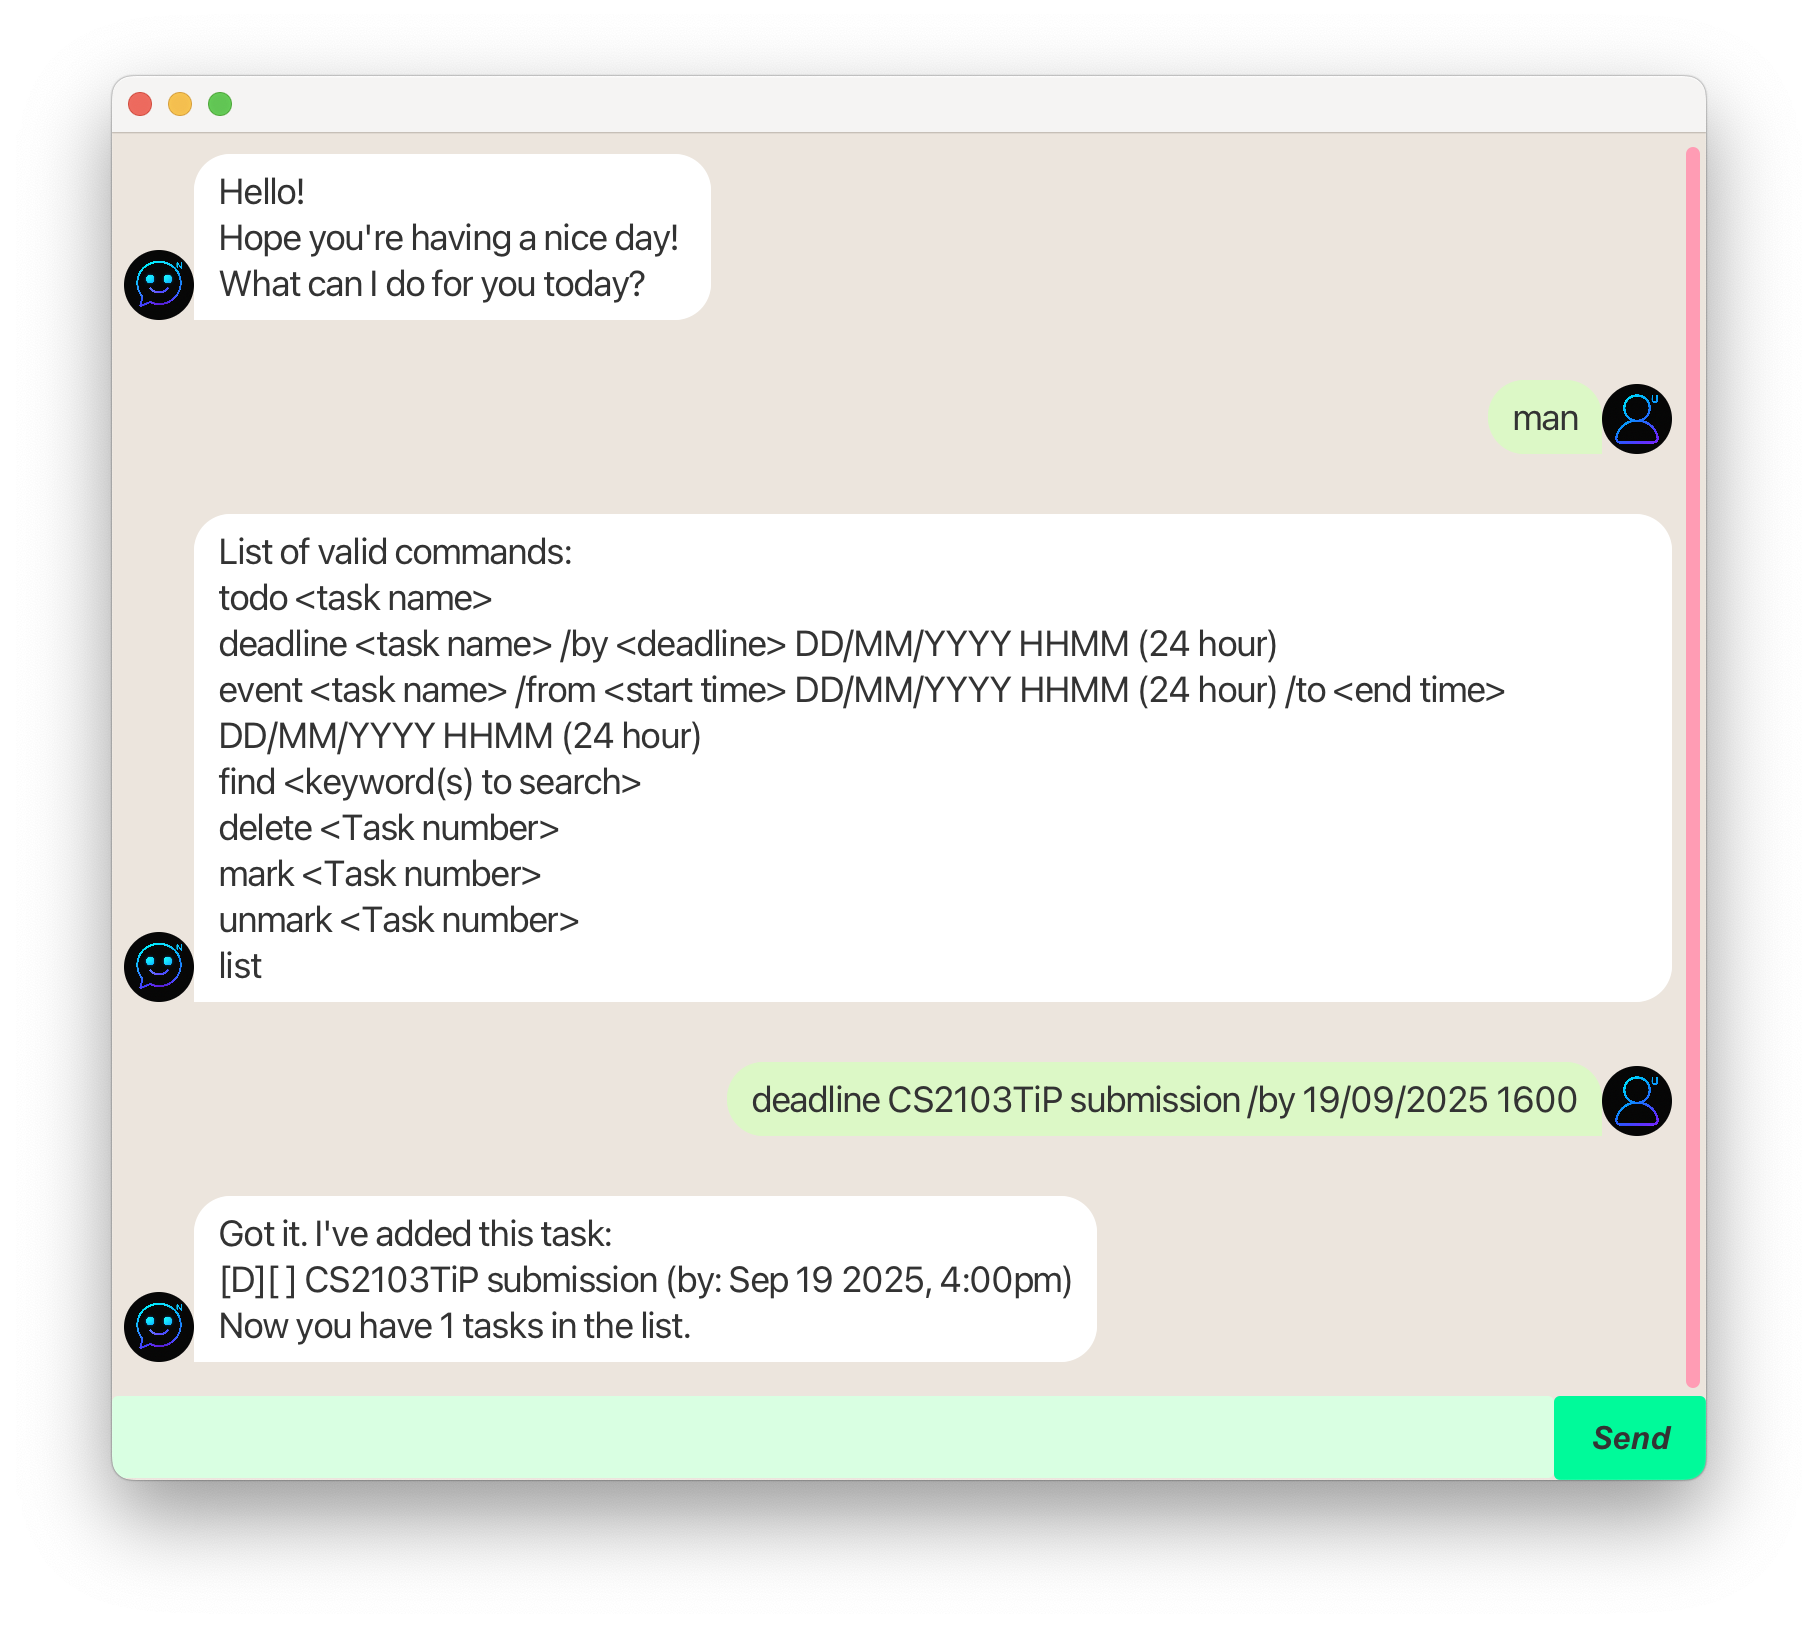
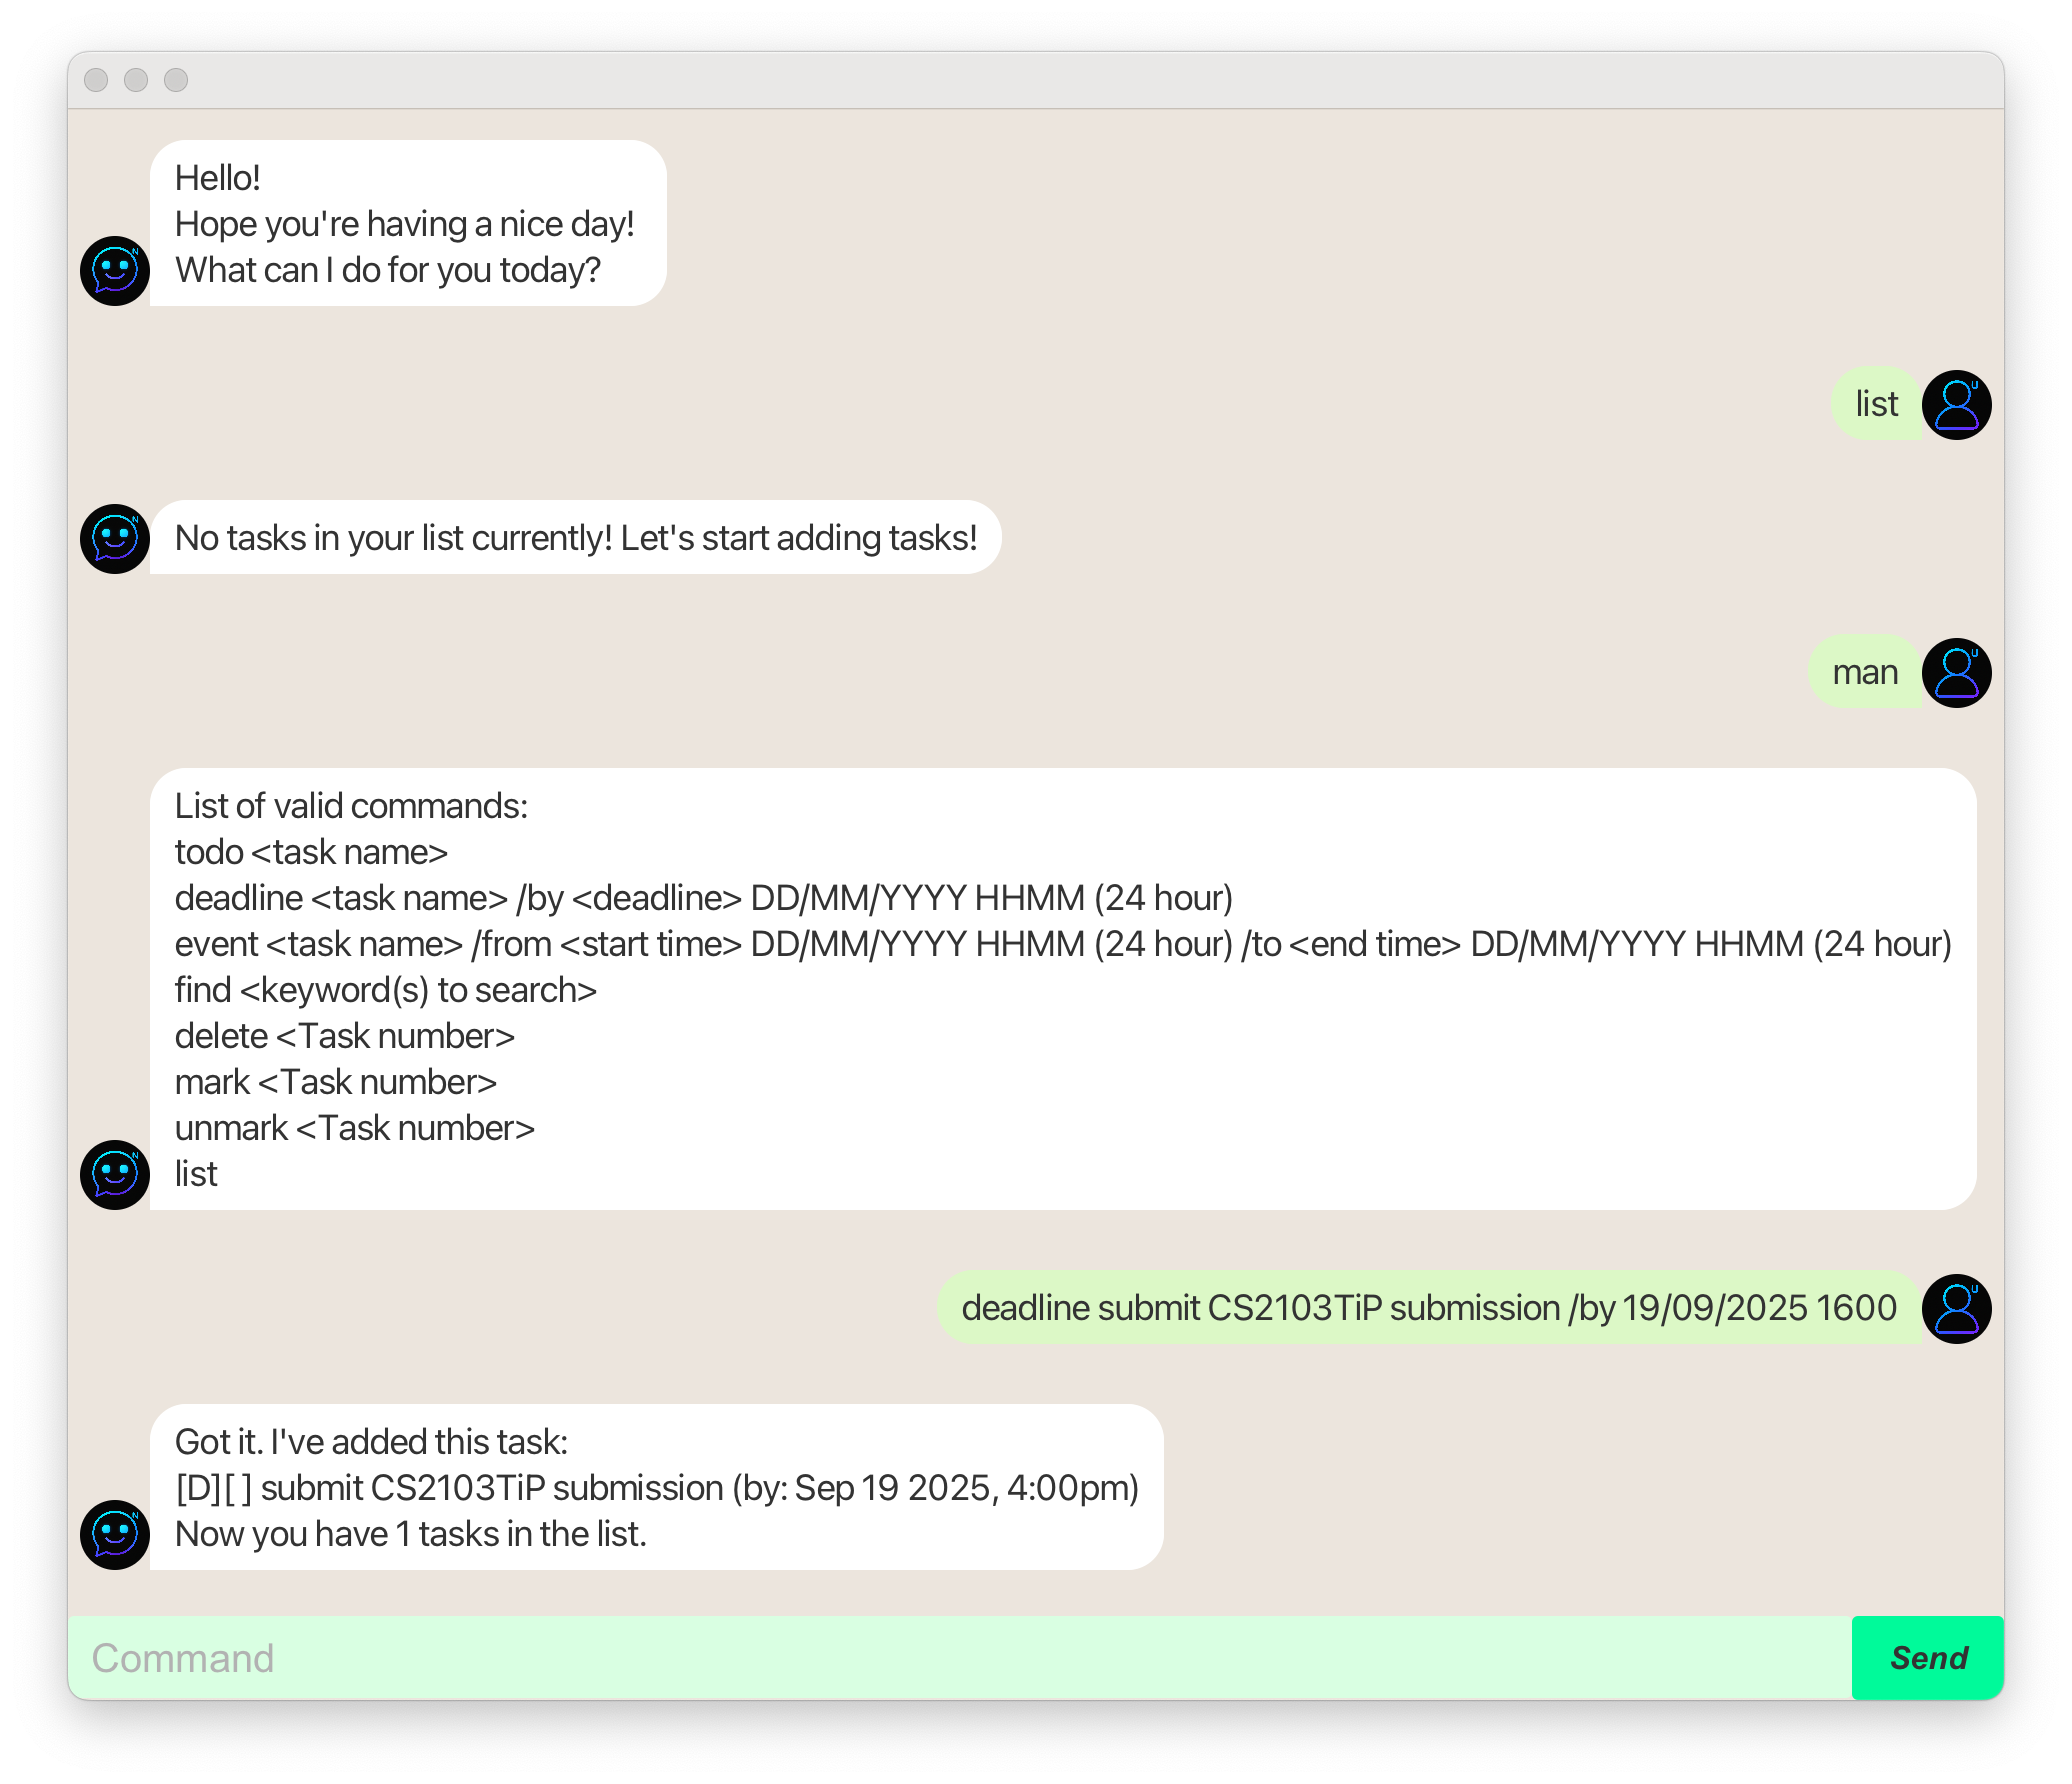
Fix Ui bugs and make minor improvements

diff --git a/src/main/resources/css/main.css b/src/main/resources/css/main.css
@@ -34,7 +34,7 @@
 }
 
 .scroll-bar .thumb {
-    -fx-background-color: #ff9cb4;
+    -fx-background-color: rgb(144,144,144,1);
     -fx-background-radius: 1em;
 }
 

diff --git a/src/main/java/NovaGPT/ui/MainWindow.java b/src/main/java/NovaGPT/ui/MainWindow.java
@@ -36,8 +36,11 @@ public class MainWindow extends AnchorPane {
     /** Initialises the ui */
     @FXML
     public void initialize() {
+        scrollPane.setFitToWidth(true);
+        scrollPane.setPannable(true);
         scrollPane.vvalueProperty().bind(dialogContainer.heightProperty());
         dialogContainer.getChildren().add(DialogBox.getNovagptDialog(Ui.welcomeMessage(), novagptImage));
+        userInput.setPromptText("Command");
     }
 
     /** Injects the NovaGPT instance */

diff --git a/src/main/java/NovaGPT/command/TaskList.java b/src/main/java/NovaGPT/command/TaskList.java
@@ -208,7 +208,7 @@ public class TaskList {
         for (int i = 0; i < ls.size(); i++) {
             Task task = ls.get(i);
             if (task.getTaskDescription().contains(searchString)) {
-                output += "\n" + counter + "." + task;
+                output += "\n" + counter + ". " + task;
                 counter++;
             }
         }
